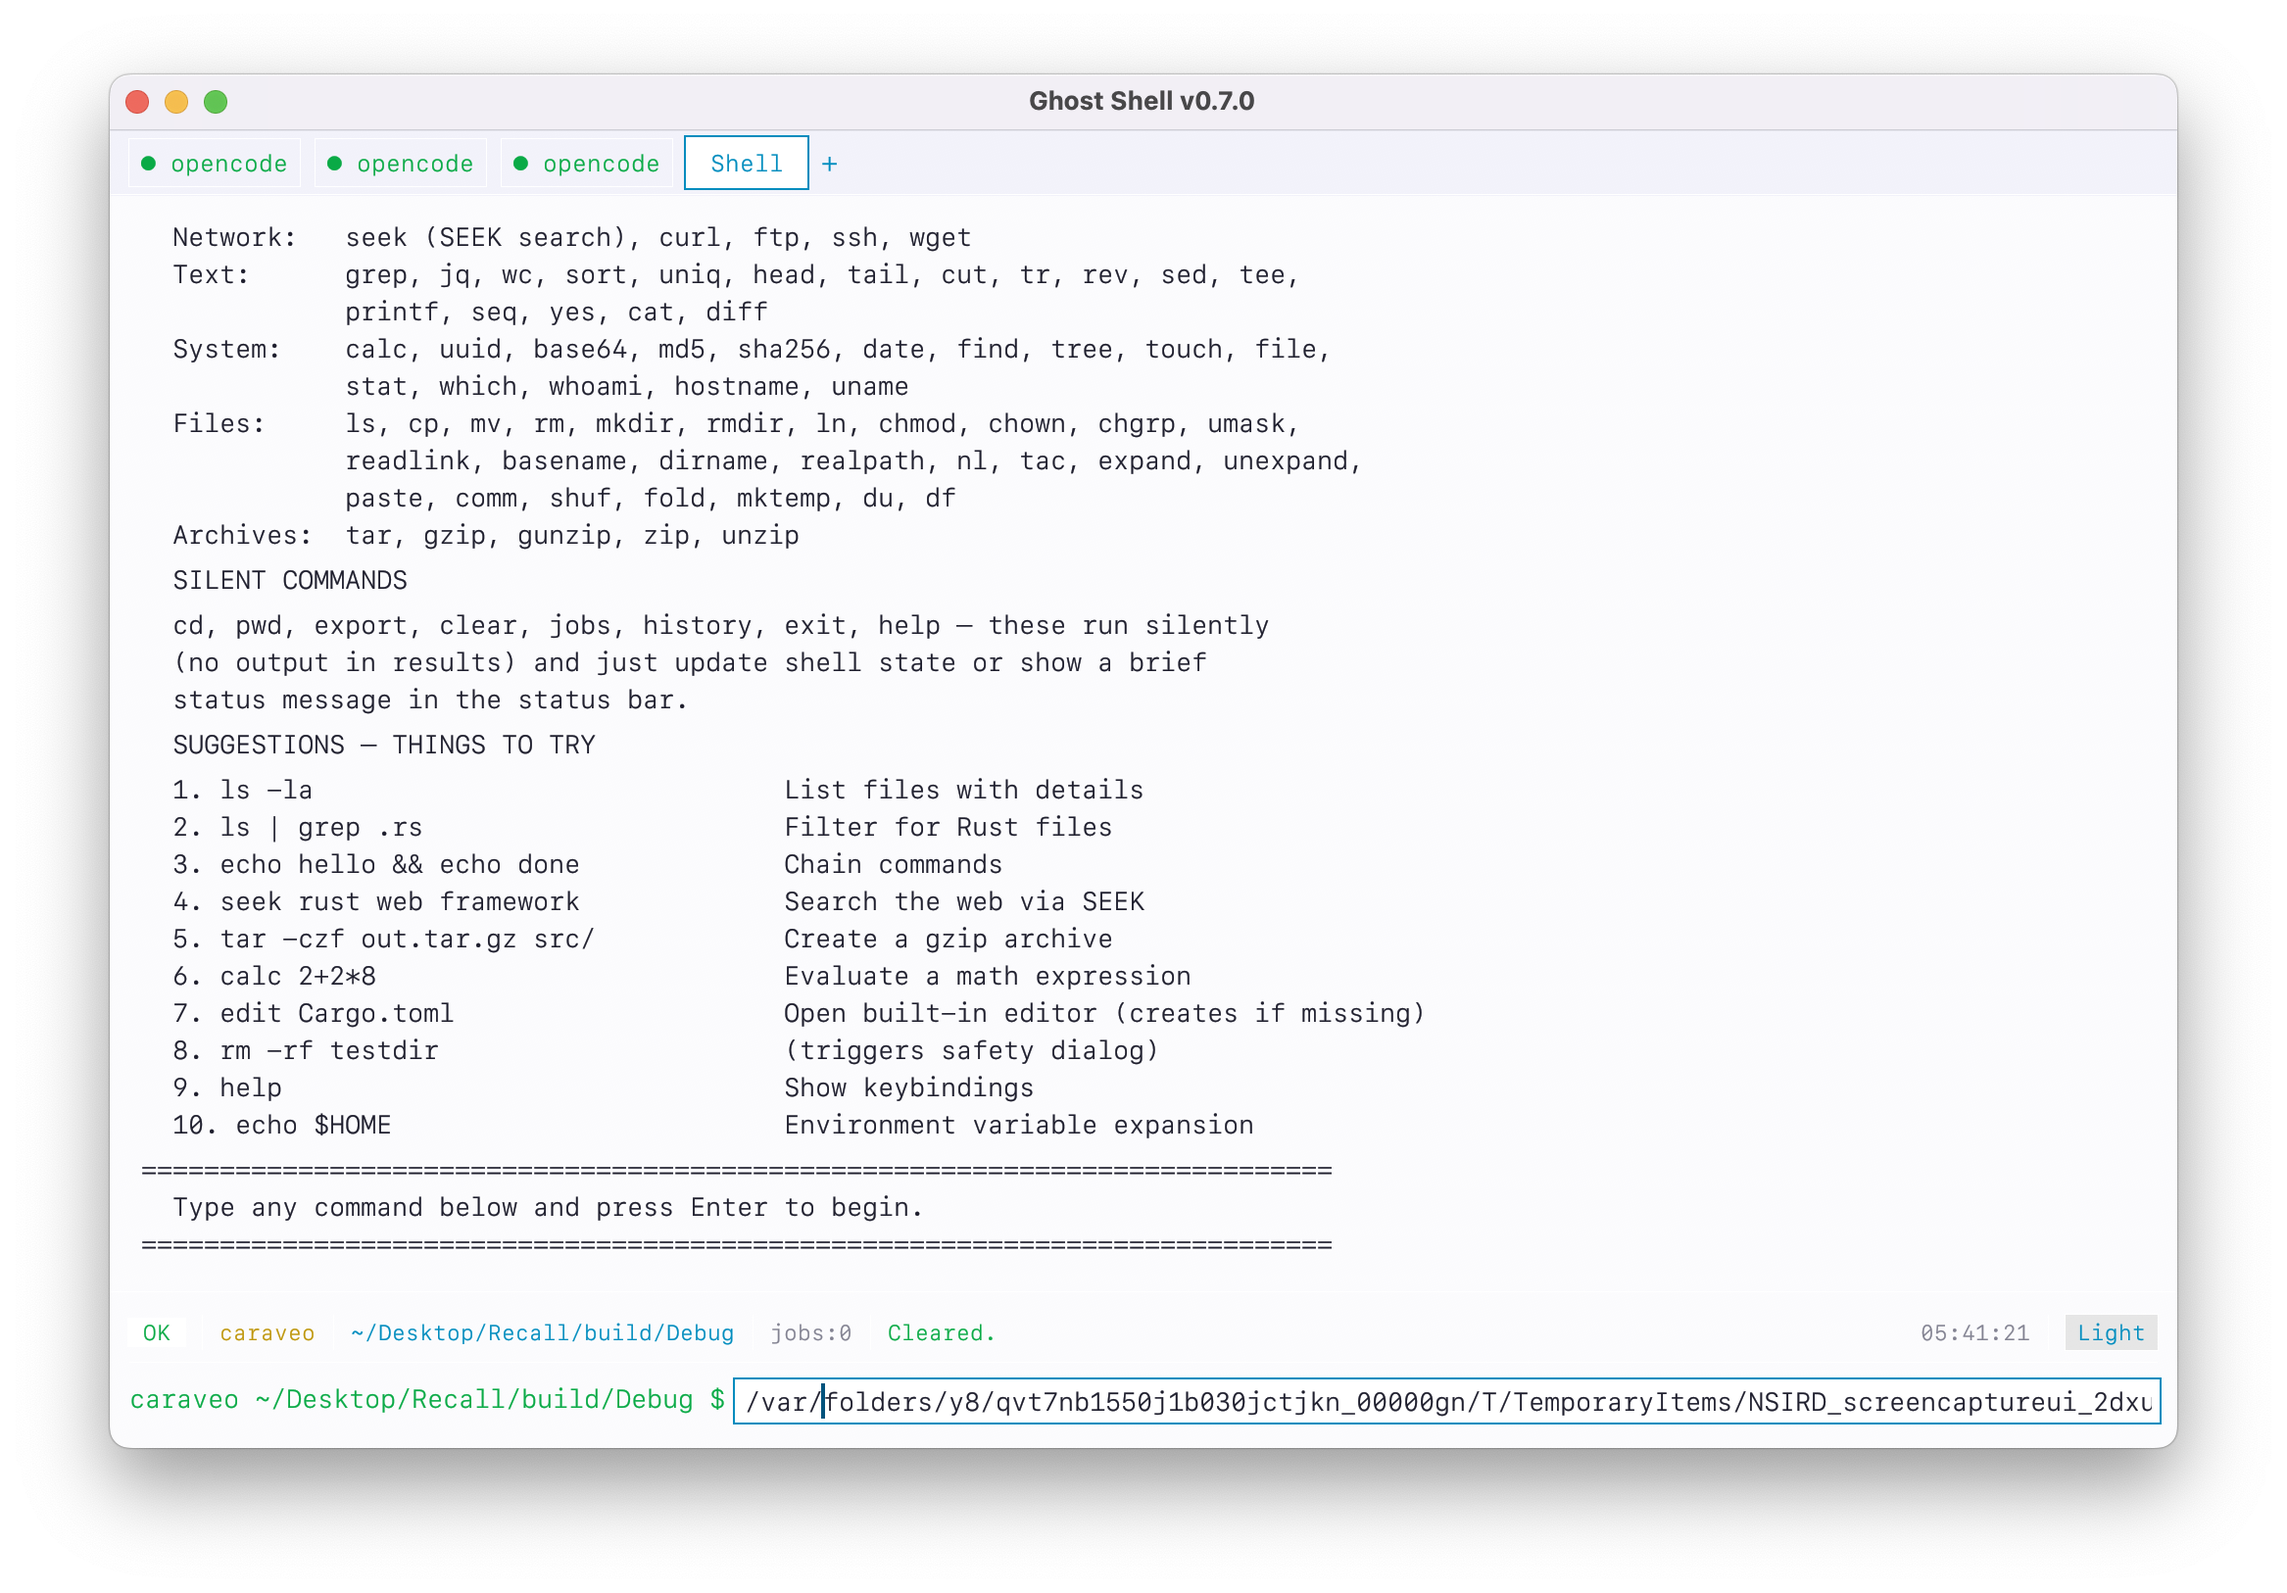
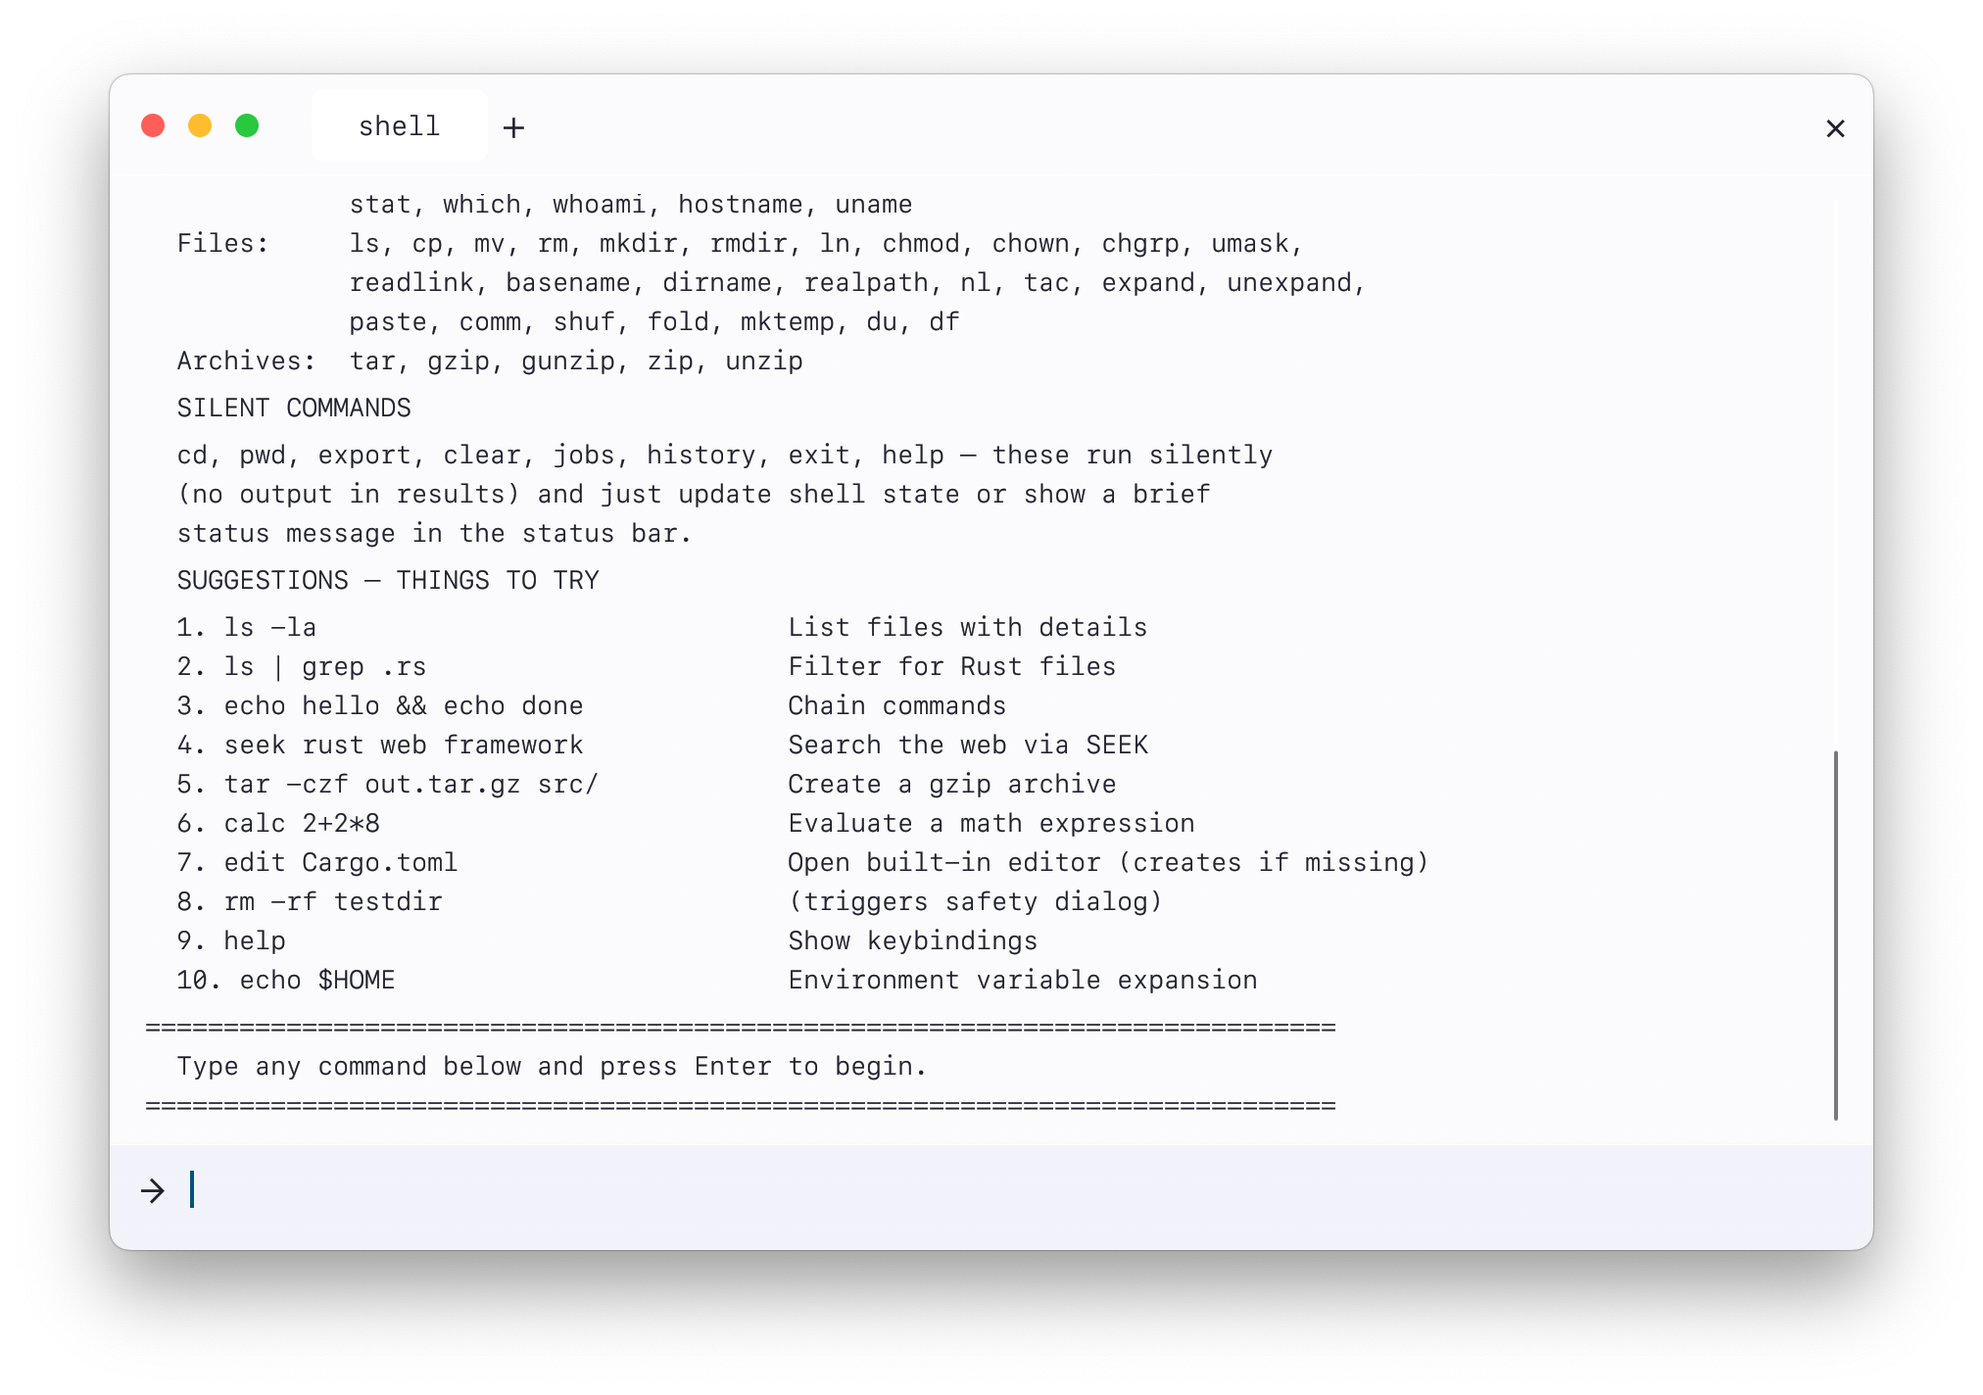
Release Ghost v0.8.0

diff --git a/settings/Settings.swift b/settings/Settings.swift
@@ -132,7 +132,7 @@ struct AboutTab: View {
             Text("Ghost Shell")
                 .font(.title)
                 .fontWeight(.bold)
-            Text("v0.7.1")
+            Text("v0.8.0")
                 .foregroundColor(.secondary)
             Text("Native macOS shell with responsive terminal emulation")
                 .foregroundColor(.secondary)
@@ -170,6 +170,48 @@ struct SettingsView: View {
 import AppKit
 
 var ghostMenuAction: Int32 = 0
+
+final class GhostToolbarDelegate: NSObject, NSToolbarDelegate {
+    func toolbarAllowedItemIdentifiers(_ toolbar: NSToolbar) -> [NSToolbarItem.Identifier] {
+        [.flexibleSpace]
+    }
+
+    func toolbarDefaultItemIdentifiers(_ toolbar: NSToolbar) -> [NSToolbarItem.Identifier] {
+        [.flexibleSpace]
+    }
+}
+
+private let ghostToolbarDelegate = GhostToolbarDelegate()
+private var ghostMainToolbar: NSToolbar?
+
+@_cdecl("ghost_configure_main_window")
+func ghost_configure_main_window() {
+    func configure() {
+        guard let window = NSApp.mainWindow
+            ?? NSApp.windows.first(where: { !($0 is NSPanel) }) else { return }
+
+        window.titleVisibility = .hidden
+        window.titlebarAppearsTransparent = true
+        window.styleMask.insert(.fullSizeContentView)
+
+        if ghostMainToolbar == nil {
+            let toolbar = NSToolbar(identifier: "GhostMainToolbar")
+            toolbar.delegate = ghostToolbarDelegate
+            toolbar.displayMode = .iconOnly
+            toolbar.showsBaselineSeparator = false
+            ghostMainToolbar = toolbar
+        }
+        window.toolbarStyle = .unified
+        window.toolbar = ghostMainToolbar
+    }
+
+    DispatchQueue.main.async {
+        // eframe creates its NSWindow after the app callback begins. Attaching
+        // the native toolbar after initial layout lets AppKit own the traffic
+        // light geometry on every supported macOS release.
+        DispatchQueue.main.asyncAfter(deadline: .now() + 1.0, execute: configure)
+    }
+}
 
 @_cdecl("ghost_setup_menu")
 func ghost_setup_menu() {

diff --git a/src/gui.rs b/src/gui.rs
@@ -1,12 +1,12 @@
-use egui::{Color32, FontFamily, FontId, Key, Layout, Sense, Ui, Align, CursorIcon};
+use egui::{Color32, FontFamily, FontId, Key, Layout, Sense, Ui, Align};
 
 use crate::app::{App, LineKind, Theme, ThemeColors};
 
 pub fn setup(ctx: &egui::Context, theme: Theme) {
     let mut style: egui::Style = (*ctx.style()).clone();
     style.text_styles.insert(egui::TextStyle::Small, FontId::new(12.0, FontFamily::Monospace));
-    style.text_styles.insert(egui::TextStyle::Body, FontId::new(15.0, FontFamily::Monospace));
-    style.text_styles.insert(egui::TextStyle::Button, FontId::new(15.0, FontFamily::Monospace));
+    style.text_styles.insert(egui::TextStyle::Body, FontId::new(14.0, FontFamily::Monospace));
+    style.text_styles.insert(egui::TextStyle::Button, FontId::new(14.0, FontFamily::Monospace));
     style.spacing.item_spacing = egui::vec2(8.0, 4.0);
     style.spacing.window_margin = egui::Margin::same(8.0);
     style.spacing.button_padding = egui::vec2(12.0, 5.0);
@@ -85,7 +85,7 @@ pub fn render(ctx: &egui::Context, app: &mut App) {
             if show_editor {
                 render_editor(ui, app, &c);
             } else if pty_active {
-                let font_id = FontId::new(app.font_size, FontFamily::Monospace);
+                let font_id = FontId::new(13.0, FontFamily::Monospace);
                 let (cell_width, row_height) = ui.fonts(|fonts| {
                     (fonts.glyph_width(&font_id, 'M'), fonts.row_height(&font_id))
                 });
@@ -282,15 +282,20 @@ fn render_tab_bar(ctx: &egui::Context, app: &mut App, c: &ThemeColors) {
     let mut add_new = false;
 
     egui::TopBottomPanel::top("tabs")
-        .exact_height(46.0)
+        .exact_height(52.0)
         .frame(egui::Frame::none()
-            .fill(c.panel)
+            .fill(c.bg)
             .stroke(egui::Stroke::new(0.75_f32, c.border))
-            .inner_margin(egui::Margin::symmetric(12.0, 7.0)))
+            .inner_margin(egui::Margin {
+                left: 14.0,
+                right: 12.0,
+                top: 9.0,
+                bottom: 9.0,
+            }))
         .show(ctx, |ui| {
             ui.horizontal(|ui| {
-                window_controls(ui, ctx);
-                ui.add_space(8.0);
+                render_window_controls(ui, ctx);
+                ui.add_space(18.0);
 
                 for (i, tab) in app.tabs.iter().enumerate() {
                     let is_active = i == active;
@@ -298,7 +303,7 @@ fn render_tab_bar(ctx: &egui::Context, app: &mut App, c: &ThemeColors) {
                     let name = &tab.name;
                     let label = if running { format!("● {}", name) } else { name.clone() };
 
-                    let bg = if is_active { c.bg } else { Color32::TRANSPARENT };
+                    let bg = c.bg;
                     let fg = if running || !is_active { c.green } else { c.white };
                     let stroke = egui::Stroke::new(if is_active { 1.0_f32 } else { 0.6_f32 }, c.border);
 
@@ -306,7 +311,7 @@ fn render_tab_bar(ctx: &egui::Context, app: &mut App, c: &ThemeColors) {
                         .fill(bg)
                         .stroke(stroke)
                         .rounding(5.0)
-                        .min_size(egui::vec2(92.0, 30.0));
+                        .min_size(egui::vec2(88.0, 34.0));
                     let resp = ui.add(btn);
                     if resp.clicked() { switch_to = Some(i); }
                 }
@@ -328,11 +333,6 @@ fn render_tab_bar(ctx: &egui::Context, app: &mut App, c: &ThemeColors) {
                 });
             });
 
-            let drag_rect = ui.max_rect();
-            let drag = ui.interact(drag_rect, ui.id().with("window_drag"), Sense::drag());
-            if drag.drag_started() {
-                ctx.send_viewport_cmd(egui::ViewportCommand::StartDrag);
-            }
         });
 
     if let Some(i) = switch_to { app.switch_tab(i); }
@@ -340,7 +340,7 @@ fn render_tab_bar(ctx: &egui::Context, app: &mut App, c: &ThemeColors) {
     if add_new { app.new_shell_tab(); }
 }
 
-fn window_controls(ui: &mut Ui, ctx: &egui::Context) {
+fn render_window_controls(ui: &mut Ui, ctx: &egui::Context) {
     let controls = [
         (Color32::from_rgb(255, 95, 87), "Close"),
         (Color32::from_rgb(255, 189, 46), "Minimize"),
@@ -348,9 +348,9 @@ fn window_controls(ui: &mut Ui, ctx: &egui::Context) {
     ];
 
     for (index, (color, label)) in controls.into_iter().enumerate() {
-        let (rect, response) = ui.allocate_exact_size(egui::vec2(14.0, 24.0), Sense::click());
+        let (rect, response) = ui.allocate_exact_size(egui::vec2(16.0, 34.0), Sense::click());
         ui.painter().circle_filled(rect.center(), 6.0, color);
-        let response = response.on_hover_cursor(CursorIcon::PointingHand).on_hover_text(label);
+        let response = response.on_hover_text(label);
         if response.clicked() {
             match index {
                 0 => ctx.send_viewport_cmd(egui::ViewportCommand::Close),
@@ -369,7 +369,6 @@ fn render_output(ui: &mut Ui, app: &App, _scroll: bool, c: &ThemeColors) {
         .auto_shrink([false, false])
         .stick_to_bottom(true)
         .show(ui, |ui| {
-            ui.style_mut().spacing.item_spacing.y = 1.0;
             for line in app.results() {
                 let color = line_color(&line.kind, c);
                 if line.text.is_empty() { ui.add_space(4.0); }
@@ -445,7 +444,7 @@ fn render_input(ui: &mut Ui, app: &mut App, c: &ThemeColors) {
 
             let resp = ui.add(
                 egui::TextEdit::singleline(&mut app.input)
-                    .font(FontId::new(app.font_size, FontFamily::Monospace))
+                    .font(FontId::new(14.0, FontFamily::Monospace))
                     .text_color(c.white)
                     .desired_width(f32::MAX)
                     .frame(false)
@@ -853,7 +852,7 @@ fn render_settings(ctx: &egui::Context, app: &mut App, c: &ThemeColors) {
             // ── About ──
             ui.separator();
             ui.add_space(4.0);
-            ui.label(egui::RichText::new("Ghost Shell v0.7.1").color(c.cyan).size(12.0));
+            ui.label(egui::RichText::new("Ghost Shell v0.8.0").color(c.cyan).size(12.0));
             ui.label(egui::RichText::new("Standalone GUI shell built in Rust with egui").color(c.gray).size(11.0));
             ui.label(egui::RichText::new("Ctrl+T: new tab | Ctrl+L: clear | Ctrl+H: help | Ctrl+D: quit").color(c.gray).size(11.0));
         });

diff --git a/src/main.rs b/src/main.rs
@@ -45,14 +45,9 @@ struct GhostApp {
 
 impl eframe::App for GhostApp {
     fn update(&mut self, ctx: &egui::Context, _frame: &mut eframe::Frame) {
-        // Command-T is the native macOS shortcut; Ctrl-T remains useful for
-        // keyboards and remote sessions that do not expose the Command key.
-        if ctx.input(|i| i.key_pressed(egui::Key::T) && (i.modifiers.command || i.modifiers.ctrl)) {
+        // Ctrl+T opens new tab
+        if ctx.input(|i| i.key_pressed(egui::Key::T) && i.modifiers.ctrl) {
             self.app.new_shell_tab();
-        }
-
-        if ctx.input(|i| i.key_pressed(egui::Key::W) && i.modifiers.command) {
-            self.app.close_tab(self.app.active_tab);
         }
 
         // Poll all PTY sessions across tabs
@@ -145,7 +140,6 @@ impl GhostApp {
         }
 
         // Real command — add prompt + output to results
-        self.app.name_active_tab_for_command(trimmed);
         let prompt = self.app.prompt();
         self.app.add_prompt(&prompt, input);
 
@@ -284,11 +278,13 @@ impl GhostApp {
 fn main() -> Result<(), eframe::Error> {
     let options = eframe::NativeOptions {
         viewport: egui::ViewportBuilder::default()
-            .with_title("Ghost")
-            .with_inner_size([1180.0, 760.0])
-            .with_min_inner_size([640.0, 400.0])
-            .with_decorations(false)
-            .with_transparent(true)
+            .with_title("Ghost Shell v0.8.0")
+            .with_title_shown(false)
+            .with_titlebar_shown(false)
+            .with_titlebar_buttons_shown(false)
+            .with_fullsize_content_view(true)
+            .with_inner_size([900.0, 600.0])
+            .with_min_inner_size([500.0, 350.0])
             .with_icon(load_icon()),
         ..Default::default()
     };
@@ -325,7 +321,7 @@ fn setup_terminal_font(ctx: &egui::Context) {
 
 fn load_icon() -> egui::IconData {
     eframe::icon_data::from_png_bytes(include_bytes!(
-        "../ghost.icon/Assets/ghost.png"
+        "../ghost Exports/ghost-macOS-Dock-1024x1024.png"
     ))
     .expect("embedded Ghost app icon must be a valid PNG")
 }

diff --git a/src/app.rs b/src/app.rs
@@ -202,7 +202,11 @@ impl App {
         env.insert("?".into(), "0".into());
         let cwd = std::env::current_dir().unwrap_or_else(|_| PathBuf::from("/"));
 
-        let results = Vec::new();
+        let mut results = Vec::new();
+        results.push(OutputLine { text: "Ghost Shell v0.8.0".into(), kind: LineKind::Info });
+        results.push(OutputLine { text: "Type 'help' for keybindings, 'hello' for features.".into(), kind: LineKind::Info });
+        results.push(OutputLine { text: "Drag & drop files into the input to insert paths.".into(), kind: LineKind::Info });
+        results.push(OutputLine { text: String::new(), kind: LineKind::Normal });
 
         App {
             input: String::new(),
@@ -335,23 +339,6 @@ impl App {
 
     pub fn switch_tab(&mut self, i: usize) {
         if i < self.tabs.len() { self.active_tab = i; self.input_focused = true; }
-    }
-
-    pub fn name_active_tab_for_command(&mut self, command: &str) {
-        let Some(tab) = self.tabs.get_mut(self.active_tab) else { return };
-        if tab.name != "shell" || !tab.results.is_empty() { return; }
-
-        let name = command
-            .split_whitespace()
-            .next()
-            .unwrap_or("shell")
-            .trim_start_matches("./")
-            .rsplit('/')
-            .next()
-            .unwrap_or("shell");
-        if !name.is_empty() {
-            tab.name = name.chars().take(18).collect();
-        }
     }
 
     pub fn new_shell_tab(&mut self) {

diff --git a/src/settings.rs b/src/settings.rs
@@ -177,6 +177,24 @@ pub fn setup_menu() {
     }
 }
 
+pub fn configure_main_window() {
+    let dylib = match find_dylib() {
+        Some(d) => d,
+        None => return,
+    };
+
+    unsafe {
+        let path = std::ffi::CString::new(dylib.to_string_lossy().as_ref()).unwrap();
+        let lib = dlopen(path.as_ptr(), RTLD_NOW);
+        if lib.is_null() { return; }
+        let sym = std::ffi::CString::new("ghost_configure_main_window").unwrap();
+        let func = dlsym(lib, sym.as_ptr());
+        if func.is_null() { return; }
+        let configure: extern "C" fn() = std::mem::transmute(func);
+        configure();
+    }
+}
+
 /// Returns menu action: 0=none, 1=new tab, 2=close tab, 3=clear, 4=toggle help
 pub fn consume_menu_action() -> i32 {
     let dylib = match find_dylib() {

diff --git a/src/builtins.rs b/src/builtins.rs
@@ -49,7 +49,7 @@ pub fn handle_builtin(name: &str, args: &[String], executor: &mut Executor) -> O
 fn builtin_hello() -> CommandResult {
     let msg = r#"
 ============================================================================
-  GHOST SHELL v0.7.1
+  GHOST SHELL v0.8.0
   A standalone GUI shell — not a terminal emulator, not a TUI.
   A real native desktop application built in Rust with egui.
 ============================================================================

diff --git a/README.md b/README.md
@@ -16,9 +16,12 @@
   <img alt="Rust" src="https://img.shields.io/badge/Rust-stable-orange?logo=rust">
   <img alt="egui 0.29" src="https://img.shields.io/badge/egui-0.29-4f7cff">
   <img alt="macOS" src="https://img.shields.io/badge/platform-macOS-black?logo=apple">
+  <img alt="Version 0.8.0" src="https://img.shields.io/badge/release-v0.8.0-25c2a0">
 </p>
 
 Ghost runs commands in its own macOS window instead of wrapping the Terminal app. Everyday operations can run through its built-in command engine, while interactive programs such as OpenCode and Grok run in dedicated terminal-emulation tabs.
+
+Version 0.8.0 introduces a persistent, streamlined macOS-style tab toolbar with integrated window controls, consistent spacing, and a focused light terminal canvas.
 
 ## Quick Install
 
